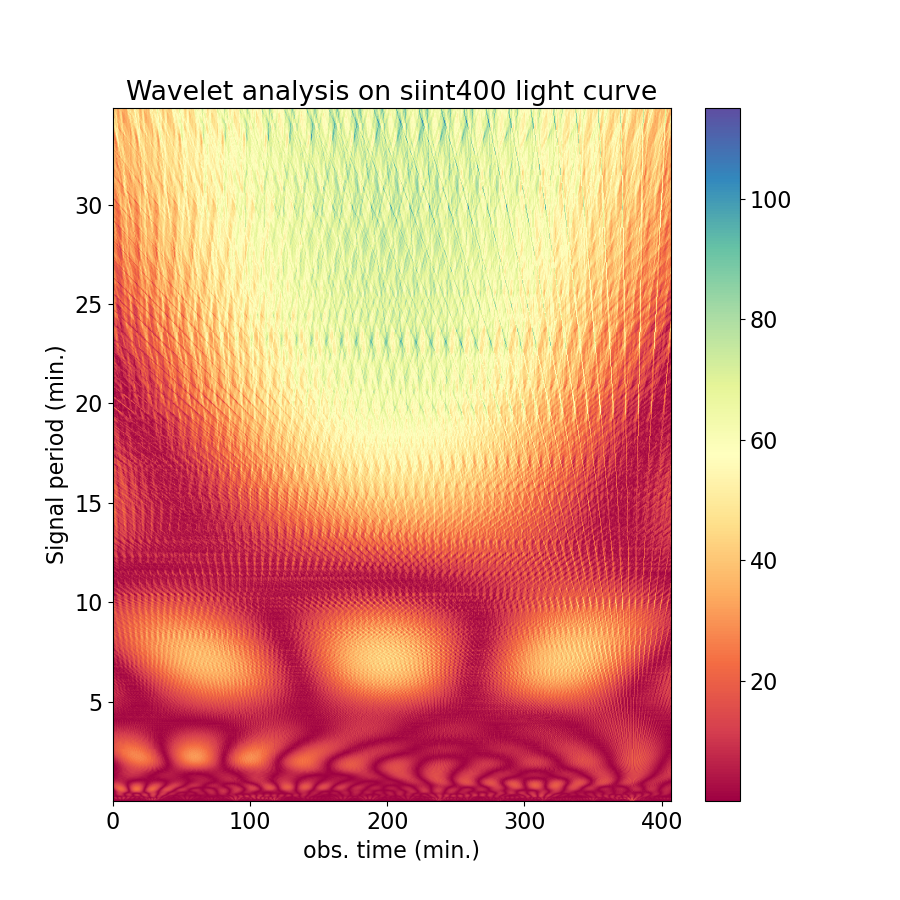
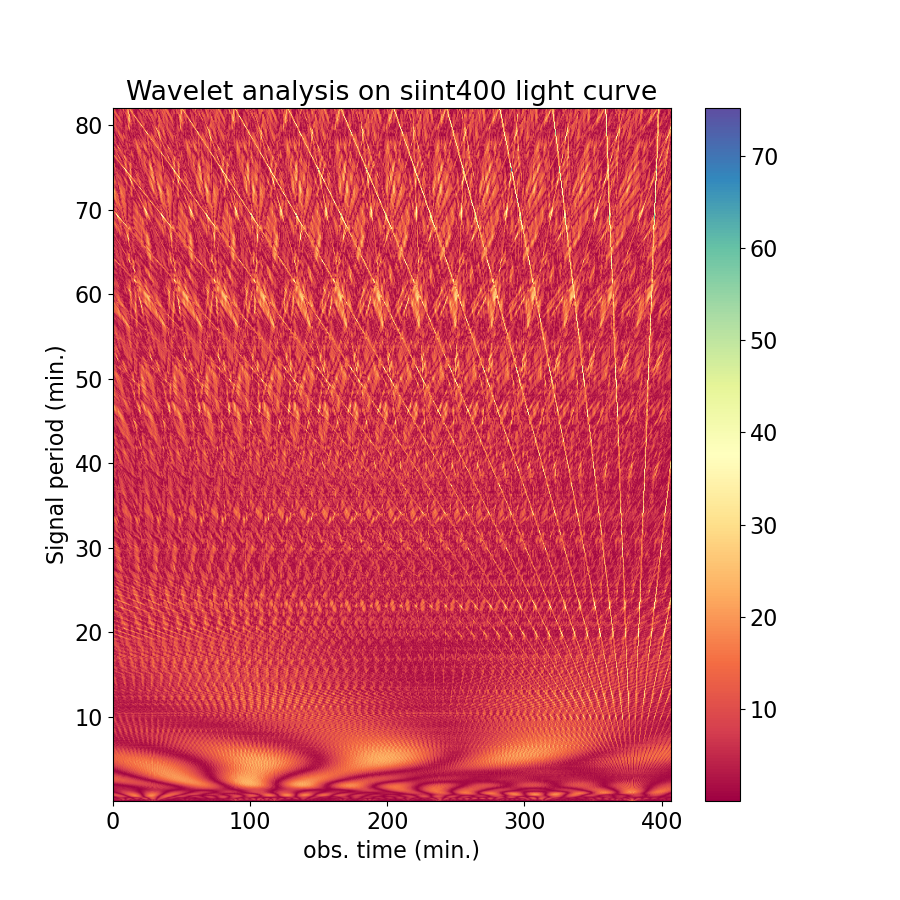
producing plots from the wavelet and fourier analysis

diff --git a/wavelet.py b/wavelet.py
@@ -15,16 +15,20 @@ dt_min = dt/60
 N = 660
 T = (N-1)*dt
 T_min = T/60
-scales = np.arange(1,1700)
+# scales translates to frequency or period. 6500 is around 130min period. 1700 is around 34min
+# 4000 is 82 min
+scales = np.arange(1,4000) #
 
 def wavelet(signal, LC_type = '', plot_LC=False, show=False):
+    signal = signal-(np.cumsum(signal)/np.arange(1,len(signal)+1)) # subtracting the running average
+    signal = signal/np.std(signal) # detrending the light curve
     coefs, freq = pywt.cwt(signal, scales, wavelet = 'morl')
     periods = 1/freq/60 # in minutes
-    #print('periods',periods[0], periods[-1])
+    print('periods',periods[0], periods[-1])
 
     plt.figure(figsize=(9,9))
     plt.title('Wavelet analysis on %s light curve' % LC_type)
-    plt.imshow(abs(coefs), aspect='auto', extent = [0,T/60, periods[-1], periods[0 ]], cmap='Spectral')
+    plt.imshow(np.abs(coefs), aspect='auto', extent = [0,T/60, periods[-1], periods[0 ]], cmap='Spectral')
     #plt.hlines(8,0, T/60, colors='red',lw=0.8 , label='Expected ~8 min period')
     plt.gca().invert_yaxis()
     plt.colorbar()
@@ -48,7 +52,7 @@ def wavelet(signal, LC_type = '', plot_LC=False, show=False):
 
 #LC_type is name of light curve type or variable name.
 # P_max is max period evaluated
-def fourier(signal, LC_type = '', P_max=32, show=False):
+def fourier(signal, LC_type = '', P_max=130, show=False):
     yf=np.flip(fft(signal)[0:N//2]) # flipped to match period
     np.seterr(divide='ignore') # ignore the divide by zero warning caused in the next line
     xp=np.flip(1/fftfreq(N, dt)[:N//2]/60) # period in minutes, flipped to go from small to large
@@ -67,6 +71,6 @@ def fourier(signal, LC_type = '', P_max=32, show=False):
         plt.show()
 
 if __name__ == "__main__":
-    siint400 = np.loadtxt('data_folder/siint_400.dat')
-    wavelet(siint400, LC_type = 'siint400')
+    siint400 = np.loadtxt('data_files/siint_400.dat')
+    wavelet(siint400, LC_type = 'siint400', )
     #fourier(siint400, LC_type= 'siint400', P_max = 15)

diff --git a/kladd.py b/kladd.py
@@ -1,11 +1,28 @@
 import numpy as np
 import pyreadstat
-import pywt
+import pycwt as wavelet
 import matplotlib.pyplot as plt
 from scipy.fftpack import fft
 
-x = np.arange(10)
-y = x**2
+signal = np.loadtxt('data_files/siint_400.dat')
+scales = np.arange(1,1700)
 
-plt.plot(x, y)
-plt.savefig('plots/fig.png')
+signal = signal-(np.cumsum(signal)/np.arange(1,len(signal)+1)) # subtracting the running average
+signal = signal/np.std(signal) # detrending the light curve
+dt = 37/60 # minutes
+N = 660
+T = (N-1)*dt
+
+s0 = 2*dt
+dj = 1/12
+J = 3.5/dj # includes periods up to 132 minutes
+#alpha, _, _ = pywt.ar1(dat)
+mother = wavelet.Morlet(2   q)
+
+wave, scales, freqs, coi, fft, fftfreqs = wavelet.cwt(signal, dt, dj, s0, J,mother)
+periods = 1/freqs # in minutes
+print(wave.shape)
+#print(1/freqs)
+plt.imshow(np.abs(wave)**2, aspect='auto', extent = [0,T, periods[-1], periods[0]], cmap=plt.cm.seismic)
+plt.show()
+#coefs, freq = pywt.cwt(signal, scales, wavelet = 'morl')
